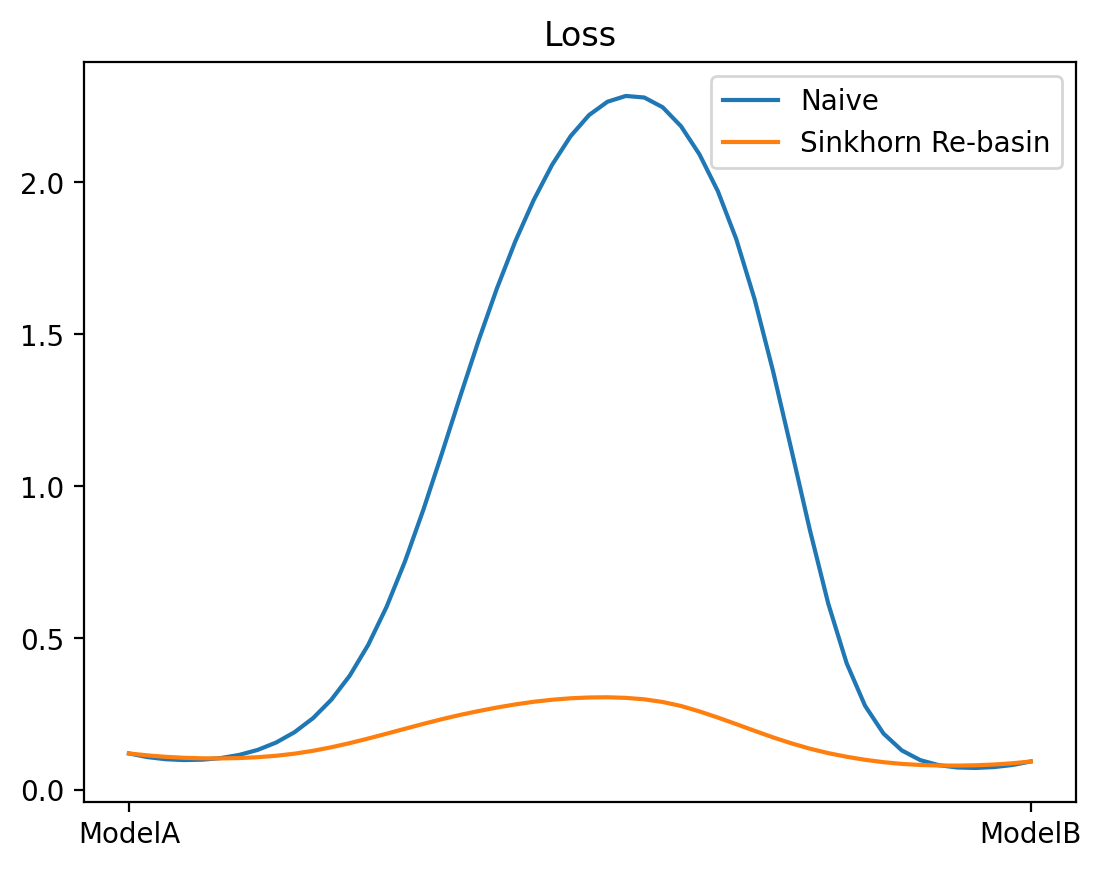
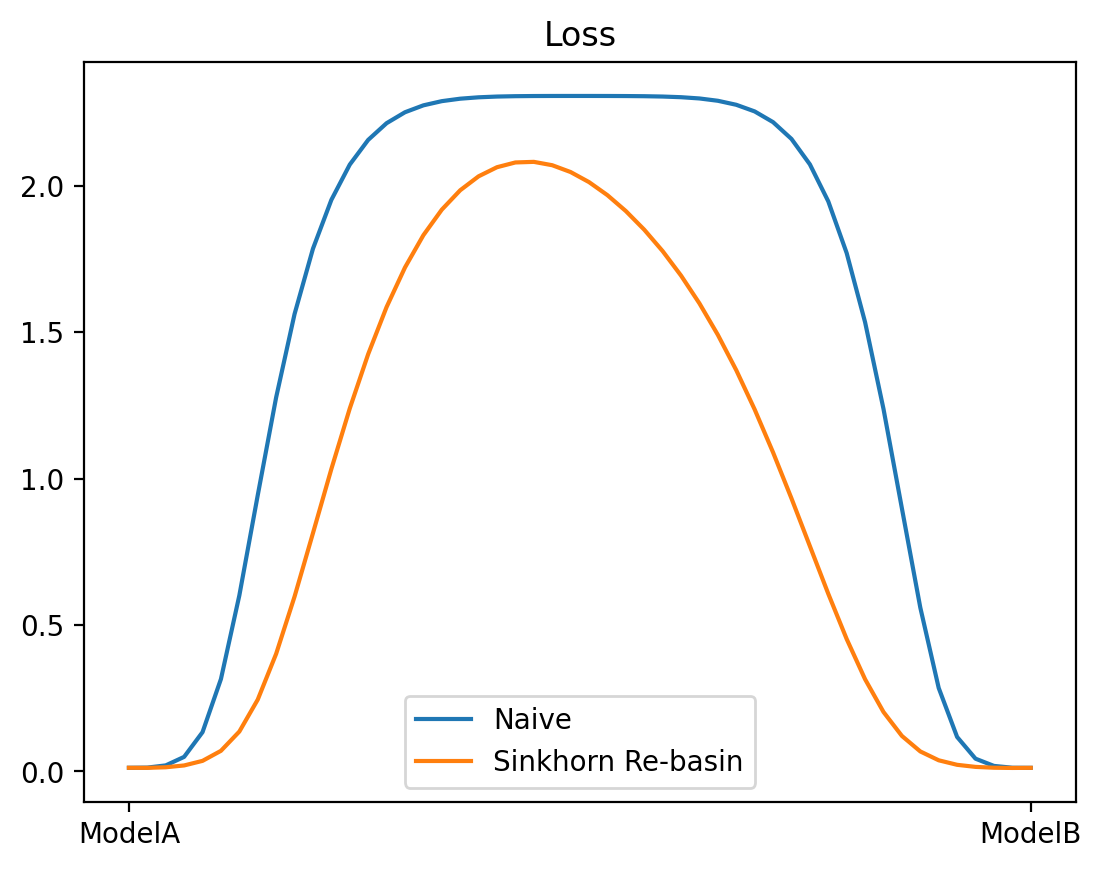
asd

diff --git a/scripts/analysis/run_external_sinkhorn_original_vgg16_mnist_align_sweep_all.py b/scripts/analysis/run_external_sinkhorn_original_vgg16_mnist_align_sweep_all.py
@@ -1,4 +1,4 @@
-"""Sweep original sinkhorn re-basin alignment params for saved VGG16 MNIST endpoints."""
+"""Sweep original sinkhorn re-basin alignment params for saved sinkhorn-VGG MNIST endpoints."""
 
 from __future__ import annotations
 
@@ -162,17 +162,18 @@ def run_one_alignment(
     test_loader,
 ) -> dict[str, Any]:
     output_root = ensure_dir(Path(cfg.output_root))
+    vgg_name = str(cfg.vgg_name)
     model_a = load_model_from_checkpoint(
         Path(cfg.model_a_checkpoint),
         VGGClass,
-        vgg_name="VGG16",
+        vgg_name=vgg_name,
         image_size=int(cfg.image_size),
         device=device,
     )
     model_b = load_model_from_checkpoint(
         Path(cfg.model_b_checkpoint),
         VGGClass,
-        vgg_name="VGG16",
+        vgg_name=vgg_name,
         image_size=int(cfg.image_size),
         device=device,
     )
@@ -197,7 +198,7 @@ def run_one_alignment(
 
     print("")
     print("=" * 80)
-    print("ORIGINAL SINKHORN VGG16 MNIST ALIGNMENT")
+    print(f"ORIGINAL SINKHORN {vgg_name} MNIST ALIGNMENT")
     print("=" * 80)
     print(f"experiment_name: {cfg.experiment_name}")
     print(f"model_a_checkpoint: {cfg.model_a_checkpoint}")
@@ -472,7 +473,7 @@ def run_alignment_sweep_all(cfg: DictConfig) -> None:
     }
 
     print("=" * 80)
-    print("ORIGINAL SINKHORN VGG16 MNIST ALIGNMENT SWEEP")
+    print(f"ORIGINAL SINKHORN {cfg.vgg_name} MNIST ALIGNMENT SWEEP")
     print("=" * 80)
     print(f"total configured runs: {total_runs}")
     print(f"selected range: {start_index}..{end_index}")
@@ -488,6 +489,7 @@ def run_alignment_sweep_all(cfg: DictConfig) -> None:
         run_cfg = OmegaConf.create(
             {
                 "experiment_name": f"{cfg.experiment_name}_{output_tag}",
+                "vgg_name": str(cfg.vgg_name),
                 "model_a_checkpoint": to_absolute_path(str(cfg.model_a_checkpoint)),
                 "model_b_checkpoint": to_absolute_path(str(cfg.model_b_checkpoint)),
                 "output_root": output_root,
